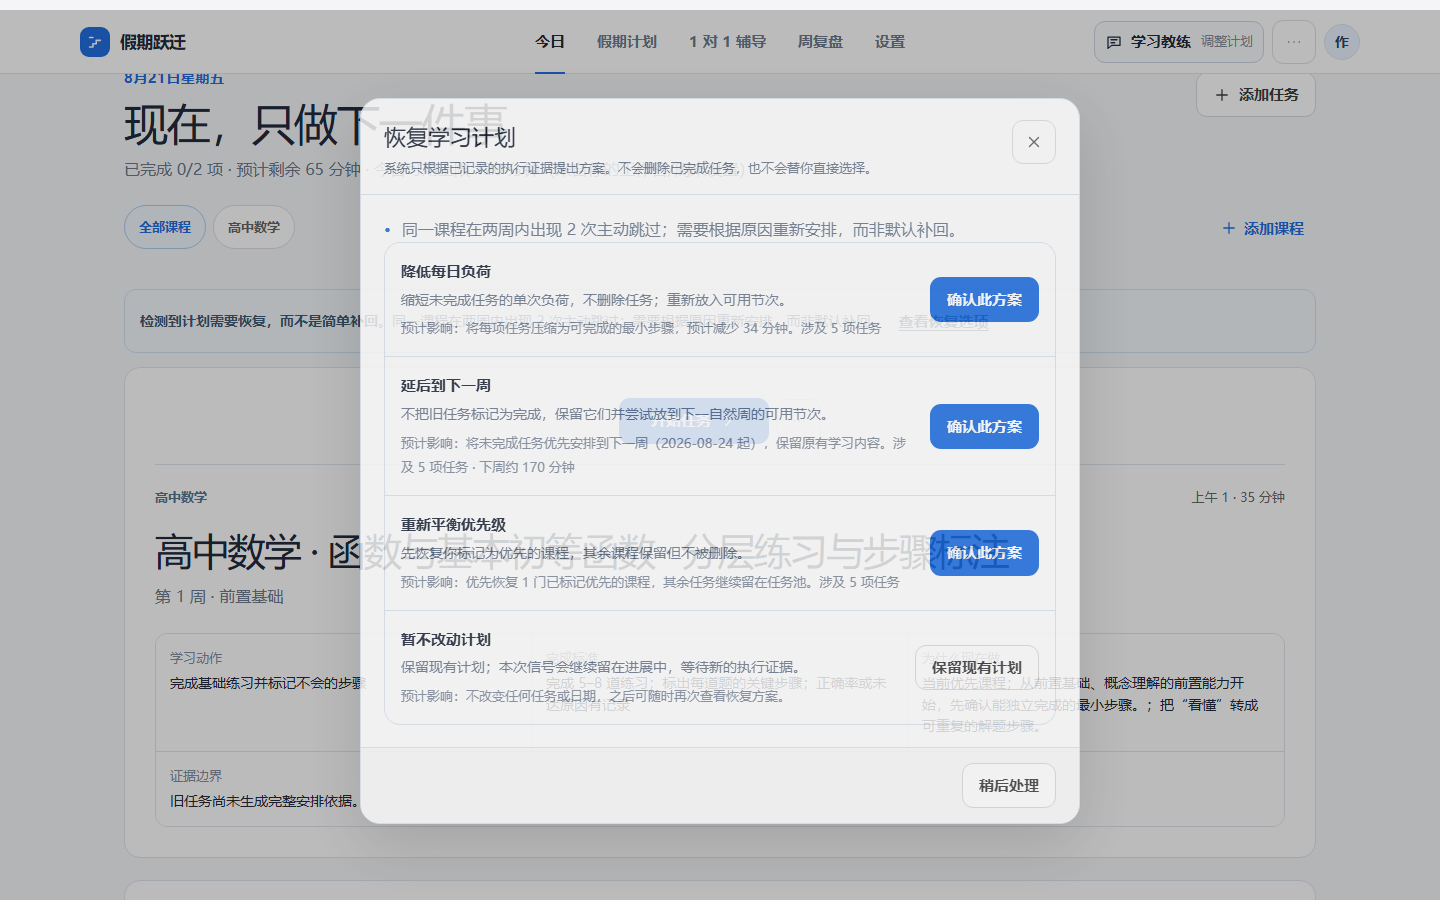
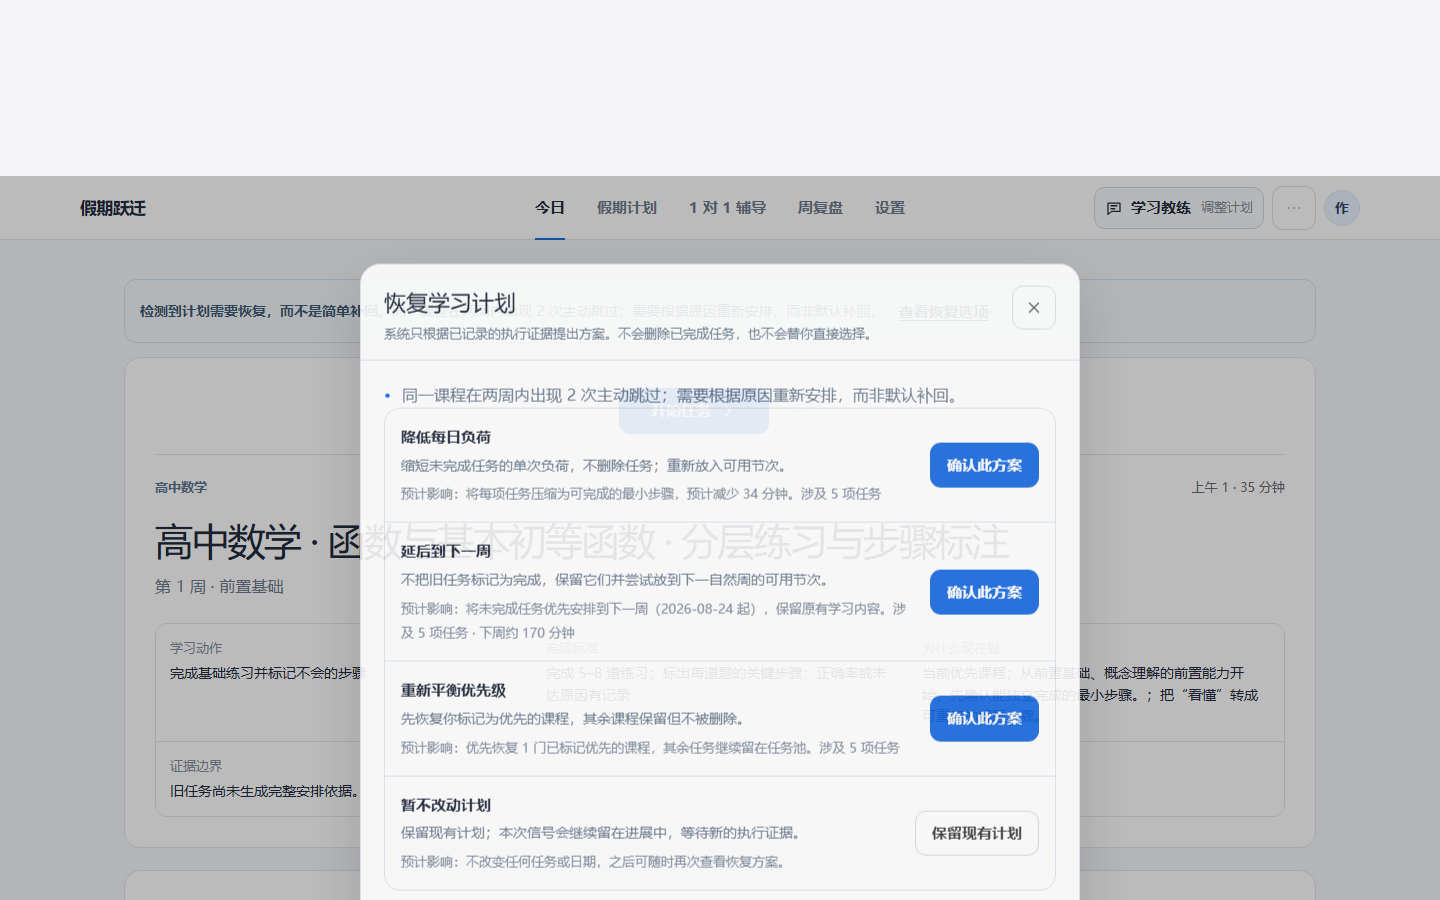
fix: simplify demo navigation and brand mark

diff --git a/src/components.tsx b/src/components.tsx
@@ -34,7 +34,7 @@ export function Icon({ name, size = 18 }: { name: string; size?: number }) {
   return <svg width={size} height={size} viewBox="0 0 24 24" fill="none" stroke="currentColor" strokeWidth="1.7" strokeLinecap="round" strokeLinejoin="round" aria-hidden="true"><path d={icons[name] || icons.plan} /></svg>
 }
 
-export function Logo({ withMark = true }: { withMark?: boolean } = {}) {
+export function Logo({ withMark = false }: { withMark?: boolean } = {}) {
   return <Link to="/" className="brand">{withMark && <span className="brand-mark" aria-hidden="true"><svg width="20" height="20" viewBox="0 0 24 24" fill="none"><path d="M5.5 18h4v-4h4v-4h5" stroke="currentColor" strokeWidth="1.9" strokeLinecap="round" strokeLinejoin="round" /><path d="M5.5 6.5h4" stroke="currentColor" strokeWidth="1.9" strokeLinecap="round" /></svg></span>}<span>假期跃迁</span></Link>
 }
 
@@ -193,7 +193,7 @@ export function AppLayout({ children }: { children: ReactNode }) {
   const avatar = data.settings.avatarDataUrl
   return <div className="app-shell">
     <a className="skip-link" href="#main-content">跳到主要内容</a>
-    <header className="app-topbar"><div className="app-topbar-inner"><Logo /><nav className="desktop-primary-nav" aria-label="主导航">{primaryNavItems.map(item => <NavLink key={item.to} to={item.to} className={({ isActive }) => `top-nav-item ${isActive ? 'active' : ''}`}><span>{item.label}</span></NavLink>)}</nav><div className="topbar-actions"><button className="coach-search-entry" onClick={openCoach}><Icon name="coach" /><span>学习教练</span><small>调整计划</small></button><button className={`icon-button more-trigger ${moreOpen ? 'active' : ''}`} aria-label="更多功能" aria-expanded={moreOpen} onClick={() => setMoreOpen(value => !value)}><Icon name="more" /></button><Link className="topbar-profile" to="/settings?section=profile" aria-label="打开个人资料设置">{avatar ? <img src={avatar} width="32" height="32" alt="" /> : <span>{data.settings.displayName.slice(0, 1) || '学'}</span>}</Link></div></div>{moreOpen && <nav className="desktop-more-menu" aria-label="更多功能">{secondaryNavItems.map(item => <NavLink key={item.to} to={item.to} onClick={() => setMoreOpen(false)}><Icon name={item.icon} /><span><strong>{item.label}</strong><small>{item.description || '按当前课程筛选和使用'}</small></span></NavLink>)}</nav>}</header>
+    <header className="app-topbar"><div className="app-topbar-inner"><Logo withMark={false} /><nav className="desktop-primary-nav" aria-label="主导航">{primaryNavItems.map(item => <NavLink key={item.to} to={item.to} className={({ isActive }) => `top-nav-item ${isActive ? 'active' : ''}`}><span>{item.label}</span></NavLink>)}</nav><div className="topbar-actions"><button className="coach-search-entry" onClick={openCoach}><Icon name="coach" /><span>学习教练</span><small>调整计划</small></button><button className={`icon-button more-trigger ${moreOpen ? 'active' : ''}`} aria-label="更多功能" aria-expanded={moreOpen} onClick={() => setMoreOpen(value => !value)}><Icon name="more" /></button><Link className="topbar-profile" to="/settings?section=profile" aria-label="打开个人资料设置">{avatar ? <img src={avatar} width="32" height="32" alt="" /> : <span>{data.settings.displayName.slice(0, 1) || '学'}</span>}</Link></div></div>{moreOpen && <nav className="desktop-more-menu" aria-label="更多功能">{secondaryNavItems.map(item => <NavLink key={item.to} to={item.to} onClick={() => setMoreOpen(false)}><Icon name={item.icon} /><span><strong>{item.label}</strong><small>{item.description || '按当前课程筛选和使用'}</small></span></NavLink>)}</nav>}</header>
     <main id="main-content" className="main-area">{storageError && <div className="storage-error" role="alert">{storageError}</div>}{children}</main>
     <button className="floating-coach" onClick={openCoach} aria-label="打开学习教练"><Icon name="coach" /></button>
     <nav className="mobile-nav" aria-label="移动端导航">{primaryNavItems.map(item => <NavLink key={item.to} to={item.to} className={({ isActive }) => `mobile-nav-item ${isActive ? 'active' : ''}`}><Icon name={item.icon} size={19} /><span>{item.label === '假期计划' ? '计划' : item.label}</span></NavLink>)}</nav>

diff --git a/e2e/portfolio-journeys.spec.ts b/e2e/portfolio-journeys.spec.ts
@@ -46,7 +46,9 @@ test('作品集 Demo：无需填写即可进入高二六科诊断、30 天计划
   await page.goto('/')
   await page.evaluate(key => localStorage.removeItem(key), STORAGE_KEY)
   await page.reload()
-  await page.getByRole('button', { name: '体验高中生 Demo' }).first().click()
+  const demoEntry = page.getByRole('button', { name: '体验高中生 Demo' })
+  await expect(demoEntry).toHaveCount(1)
+  await demoEntry.click()
   await expect(page.getByRole('heading', { name: '先看清每门课的起点，再安排 30 天' })).toBeVisible()
   await expect(page.getByRole('button', { name: '高中数学' })).toBeVisible()
   await page.getByRole('link', { name: '30 天学习计划' }).click()

diff --git a/src/pages/Landing.tsx b/src/pages/Landing.tsx
@@ -27,7 +27,7 @@ export default function Landing() {
     }
   }
   return <div className="landing landing-v6">
-    <header className="landing-nav"><Logo withMark={false} /><nav aria-label="首页导航"><button type="button" className="landing-demo-link" onClick={startDemo} disabled={demoLoading}>{demoLoading ? '正在加载…' : '体验高中生 Demo'}</button><Link to={destination}>开始规划</Link></nav></header>
+    <header className="landing-nav"><Logo withMark={false} /><nav aria-label="首页导航"><Link to={destination}>开始规划</Link></nav></header>
     <main>
       <section className="landing-hero landing-hero-planner">
         <div className="landing-hero-copy">

diff --git a/docs/portfolio/screenshot-manifest.md b/docs/portfolio/screenshot-manifest.md
@@ -7,4 +7,4 @@
 
 分辨率分别为 `1440x900` 与 `390x844`。每轮截图前均注入“高中数学 9/100、低置信度诊断与恢复信号”演示数据；不修改默认空白用户数据。
 
-README 使用的学习计划展示图为 `docs/screenshots/after/plan-github.png`，用于展示完整课表，不替代 `plan-1440x900.png` 的视觉回归基准。
+README 使用的作品集展示图为 `docs/screenshots/after/landing-github.png` 与 `docs/screenshots/after/plan-github.png`；两者用于展示完整产品入口和课表，不替代自动化视觉回归基准截图。

diff --git a/README.md b/README.md
@@ -51,7 +51,7 @@ Demo 数据只写入当前浏览器的 `localStorage`，不会修改代码仓库
 
 | 产品入口 | 学习计划 |
 | --- | --- |
-| ![产品入口](docs/screenshots/after/landing-1440x900.png) | ![学习计划](docs/screenshots/after/plan-github.png) |
+| ![产品入口](docs/screenshots/after/landing-github.png) | ![学习计划](docs/screenshots/after/plan-github.png) |
 
 更多桌面端、移动端与恢复弹窗截图见 [截图清单](docs/portfolio/screenshot-manifest.md)。
 
